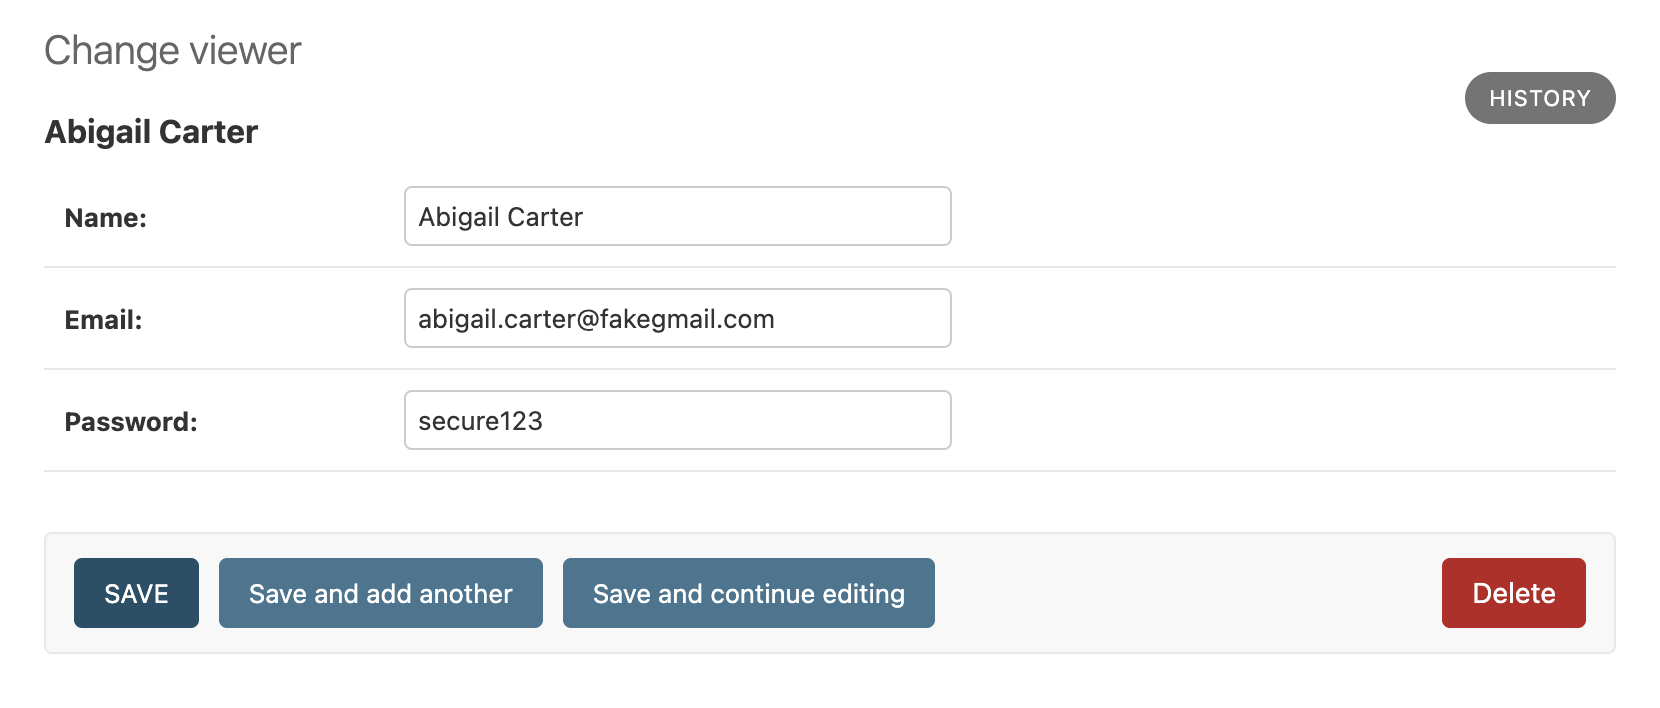
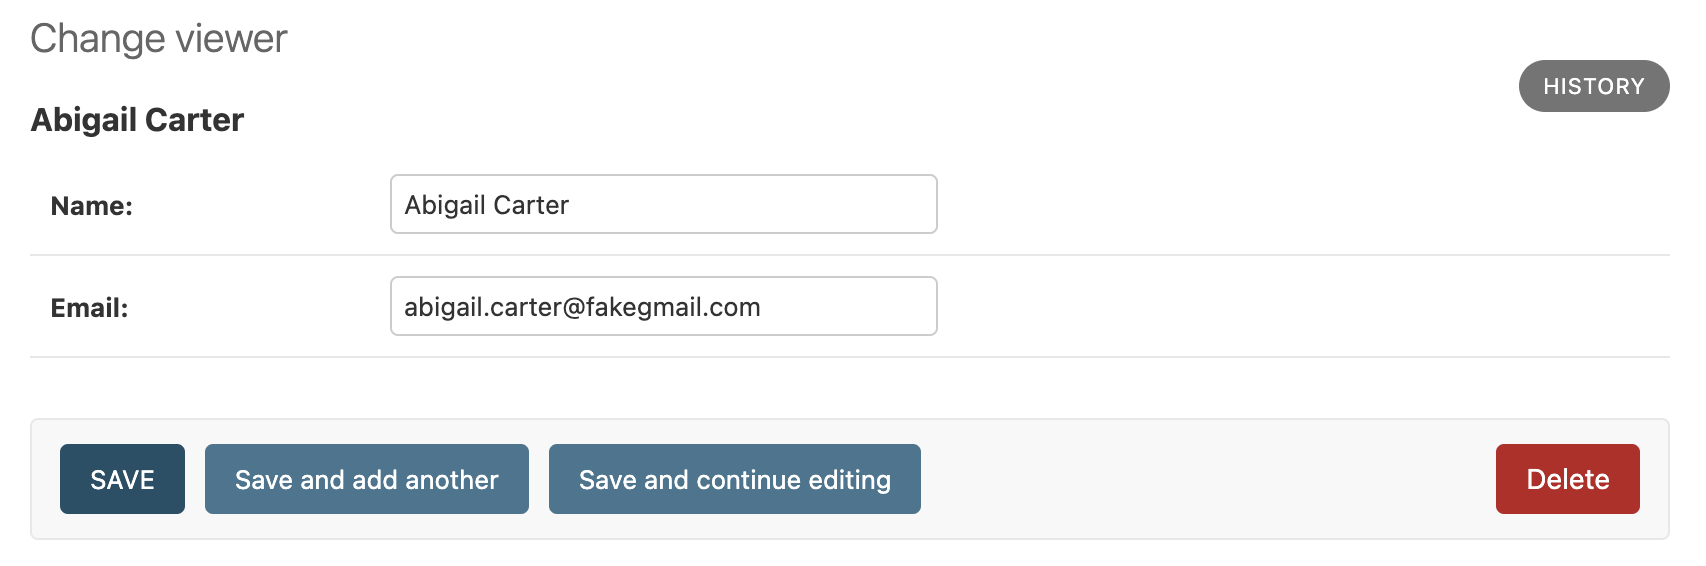
remove password field, edits

diff --git a/source/includes/get-started/models.py b/source/includes/get-started/models.py
@@ -25,10 +25,9 @@ class Movie(models.Model):
     def __str__(self):
         return self.title
 
-class Viewer(settings.AUTH_USER_MODEL):
+class Viewer(models.Model):
     name = models.CharField(max_length=100)
     email = models.CharField(max_length=200)
-    password = models.CharField(max_length=100)
 
     class Meta:
         db_table = "users"

diff --git a/source/includes/get-started/read-write-data.py b/source/includes/get-started/read-write-data.py
@@ -24,8 +24,7 @@ movie.save()
 # start-insert-viewer
 viewer = Viewer.objects.create(
     name="Abigail Carter",
-    email="abigail.carter@fakegmail.com",
-    password="secure123"
+    email="abigail.carter@fakegmail.com"
 )
 # end-insert-viewer
 
